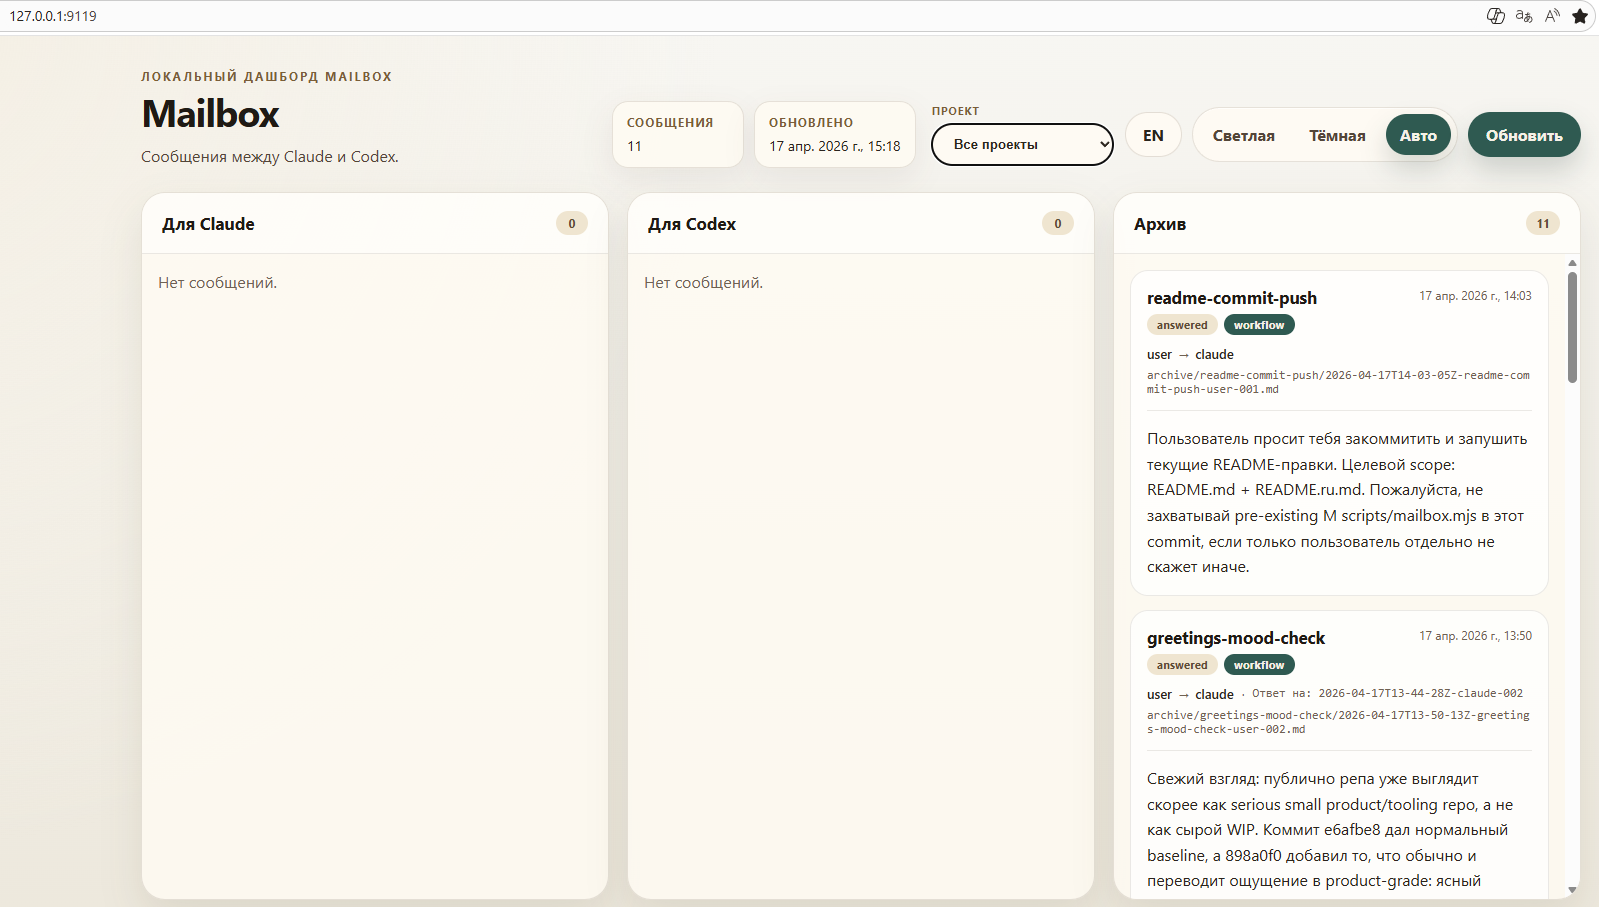
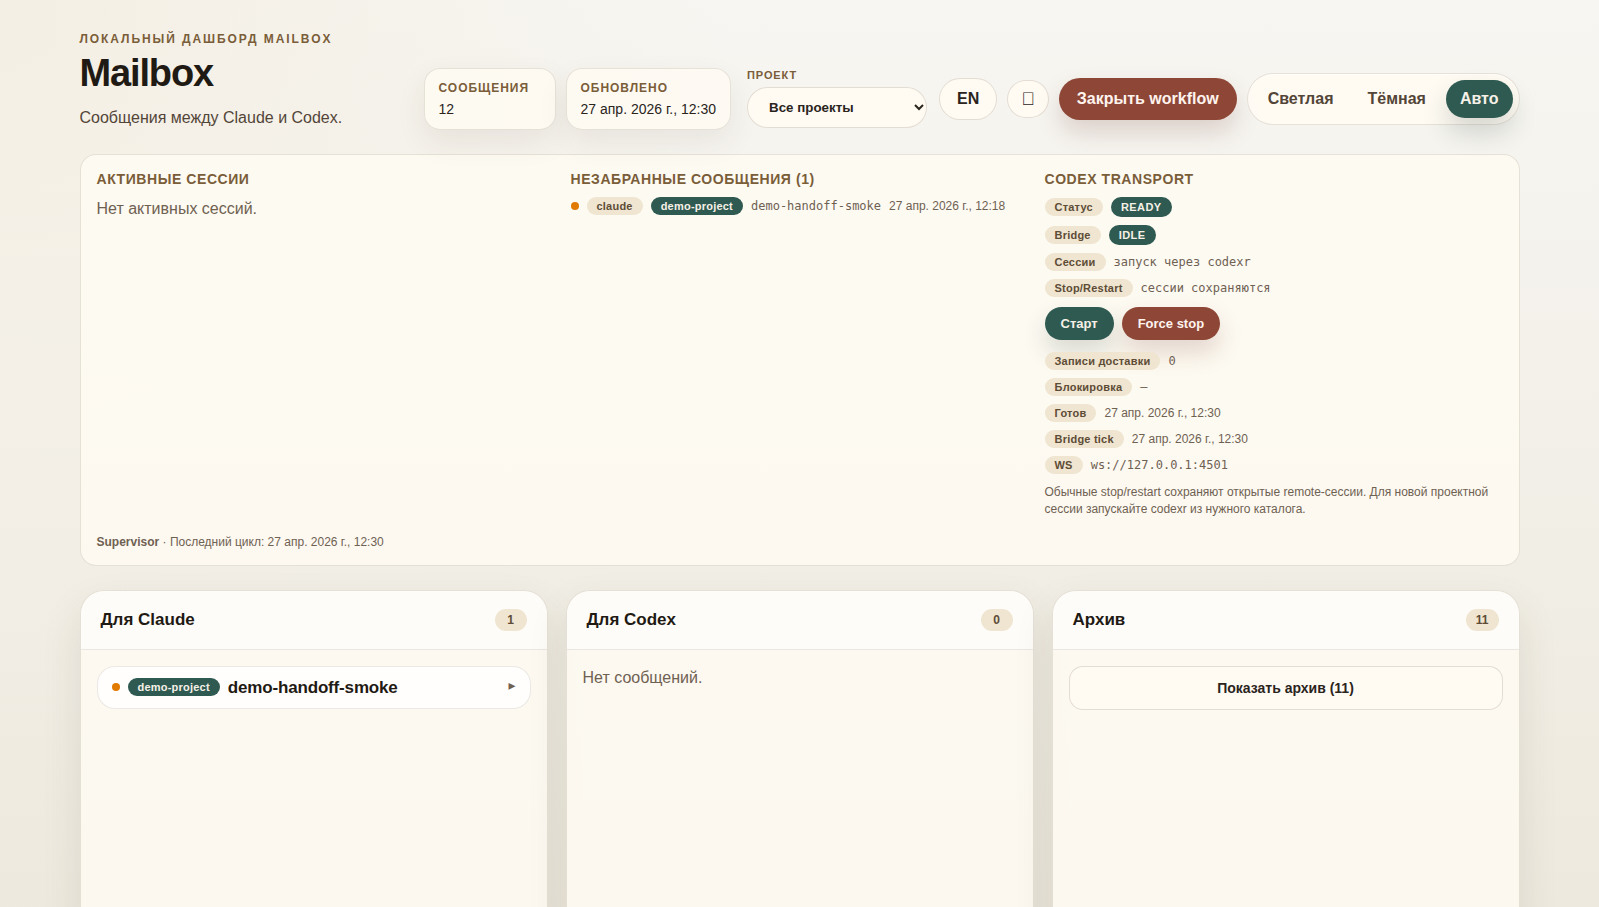
docs: refresh dashboard preview

diff --git a/README.ru.md b/README.ru.md
@@ -52,7 +52,7 @@
 
 ![Mailbox dashboard overview](./docs/assets/dashboard-overview.png)
 
-*Локальный дашборд с ожидающими сообщениями, сгруппированными по получателю, с project filter, переключением RU/EN, светлой/тёмной темой и звуковым уведомлением. Маркер непрочитанного опирается на сырое поле frontmatter `received_at`, а не на derived display timestamp из library reader'а.*
+*Локальный дашборд с project filter, runtime-состоянием активных сессий, индексом незабранных писем, статусом Codex transport, inbox-колонками, архивом, переключателями языка/темы/звука и browser-индикаторами pending count. Маркер непрочитанного опирается на сырое поле frontmatter `received_at`, а не на derived display timestamp из library reader'а.*
 
 ---
 

diff --git a/README.md b/README.md
@@ -52,7 +52,7 @@ Important: most existing `docs/codex-tasks/*.md` files are historical archive fr
 
 ![Mailbox dashboard overview](./docs/assets/dashboard-overview.png)
 
-*Local dashboard showing pending messages grouped by recipient, with project filter, language toggle (RU/EN), light/dark themes, tab-title badge + favicon for pending count, and optional audio notification. Unread markers are driven by the raw mailbox frontmatter field `received_at`, not by the library's display fallback timestamp.*
+*Local dashboard showing project filtering, active-session/runtime state, unclaimed message index, Codex transport health, recipient inboxes, archive controls, language/theme/audio toggles, and pending-count browser indicators. Unread markers are driven by the raw mailbox frontmatter field `received_at`, not by the library's display fallback timestamp.*
 
 ---
 
